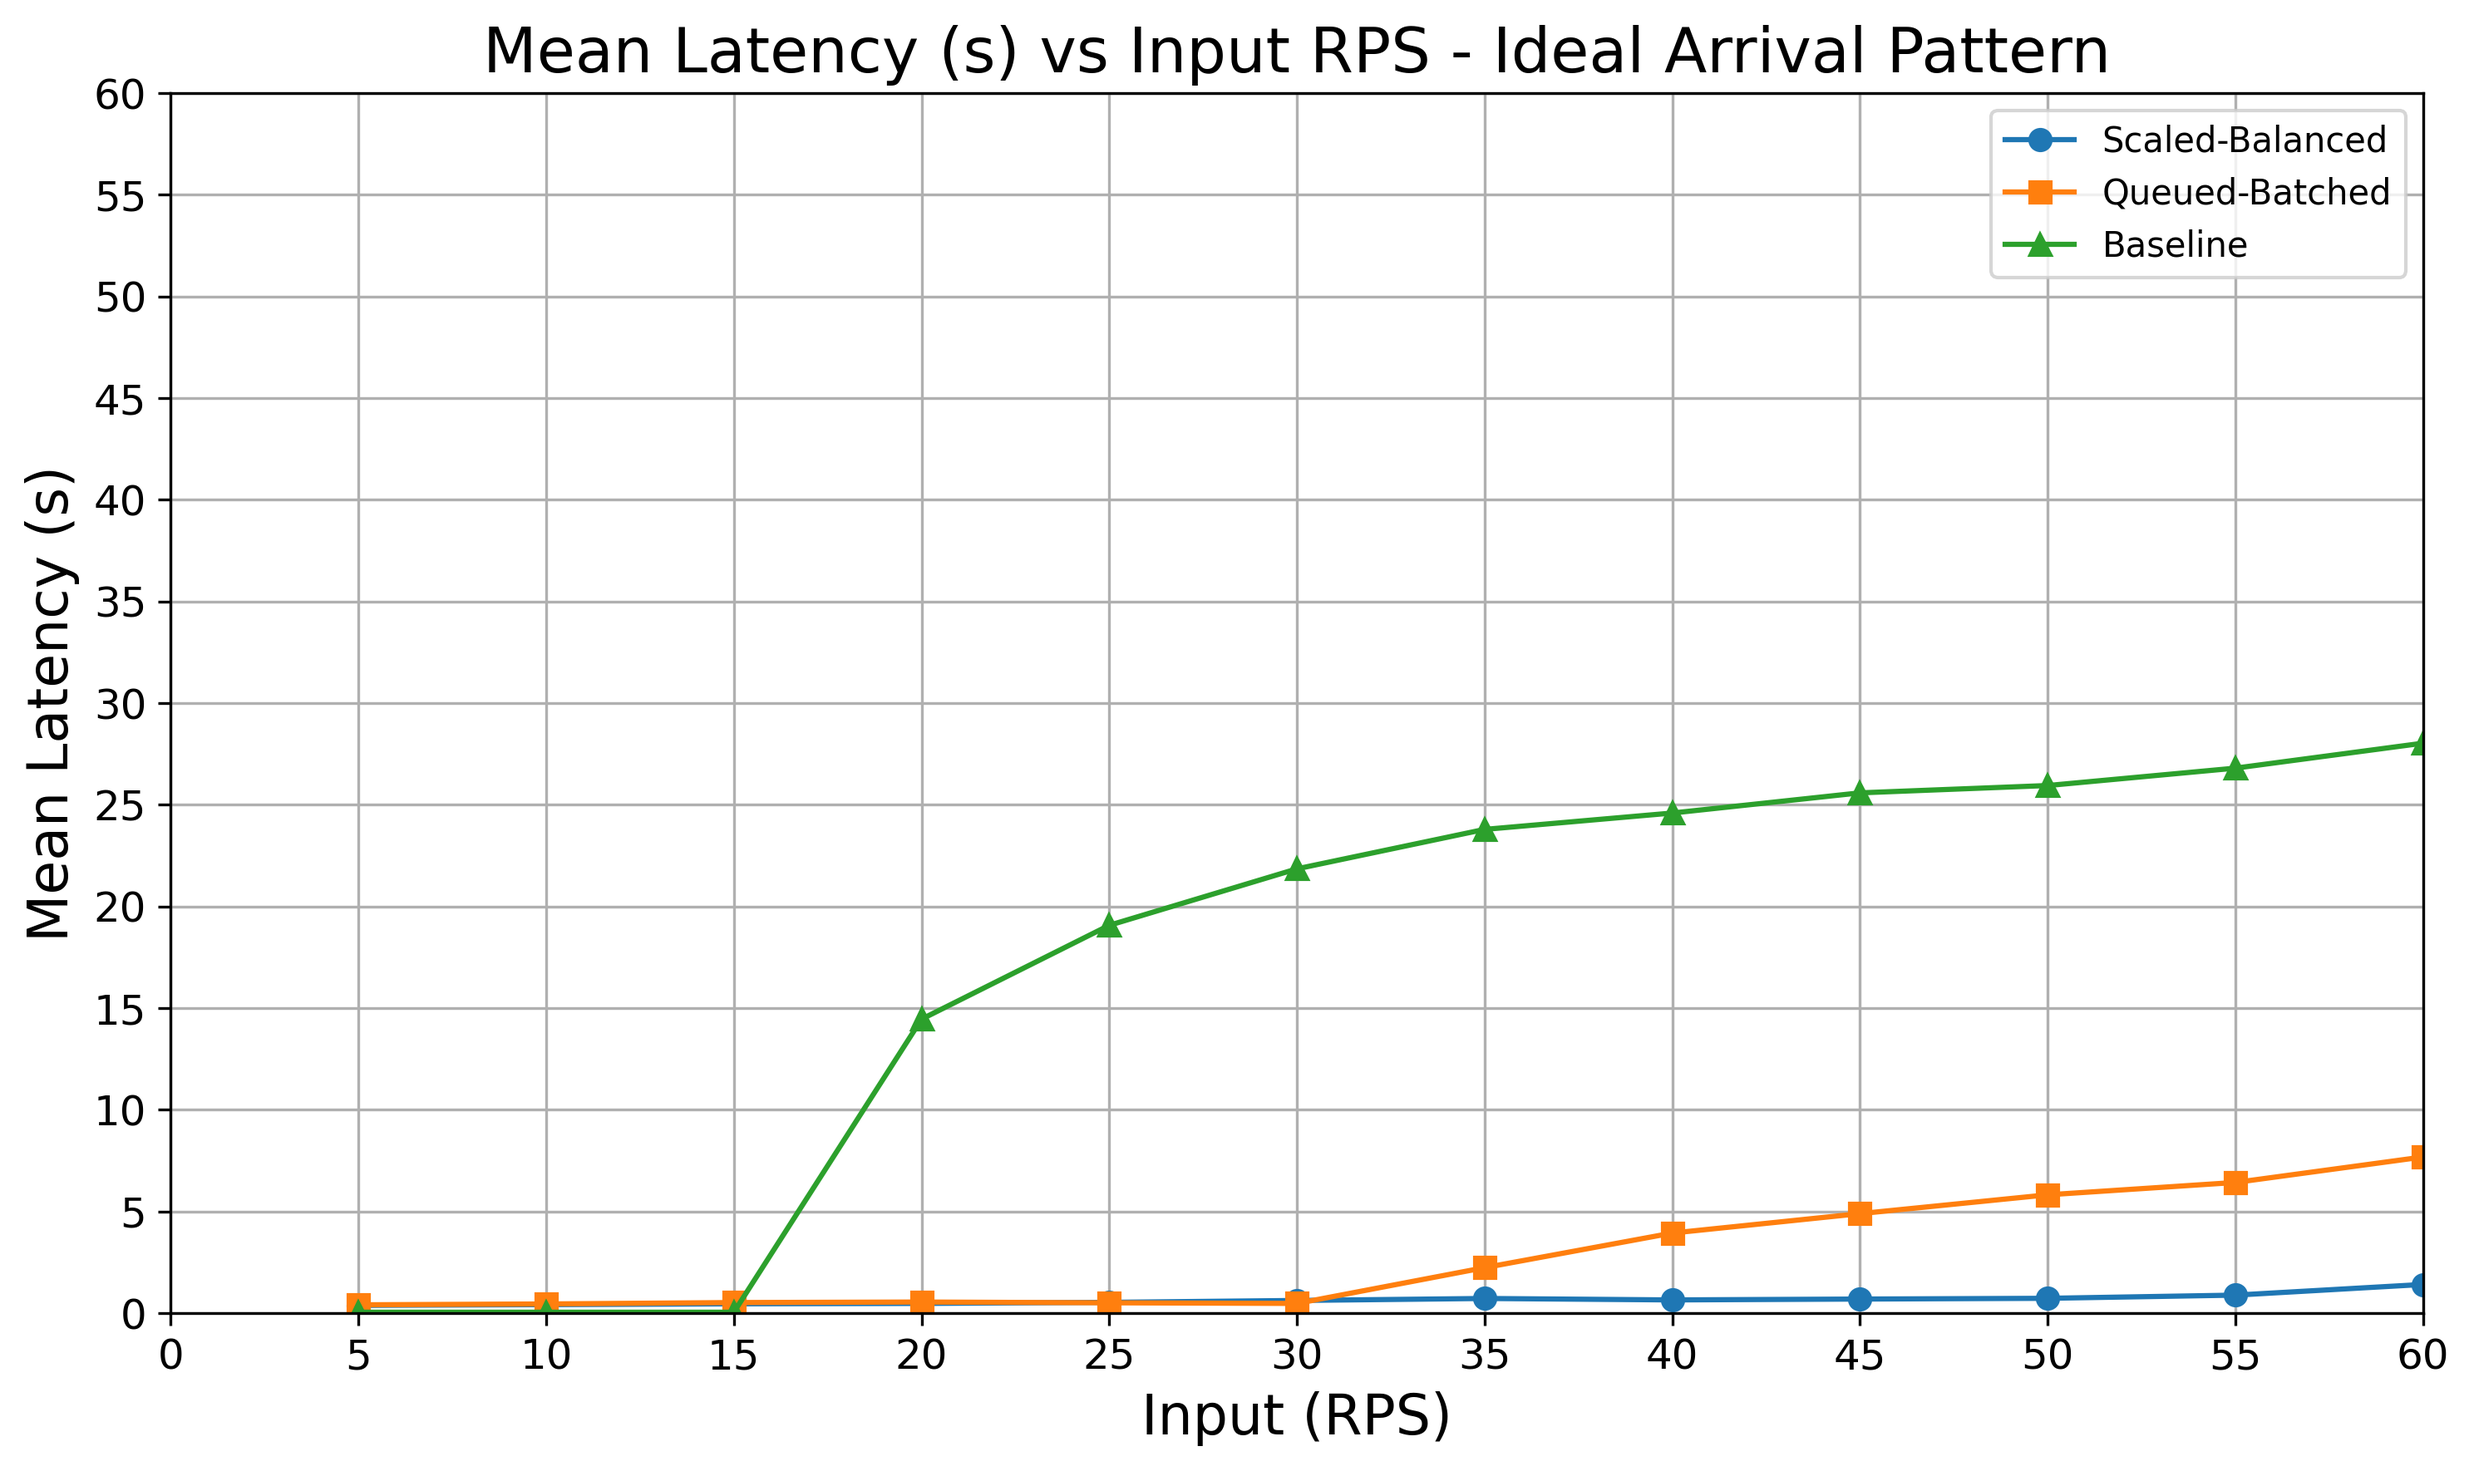
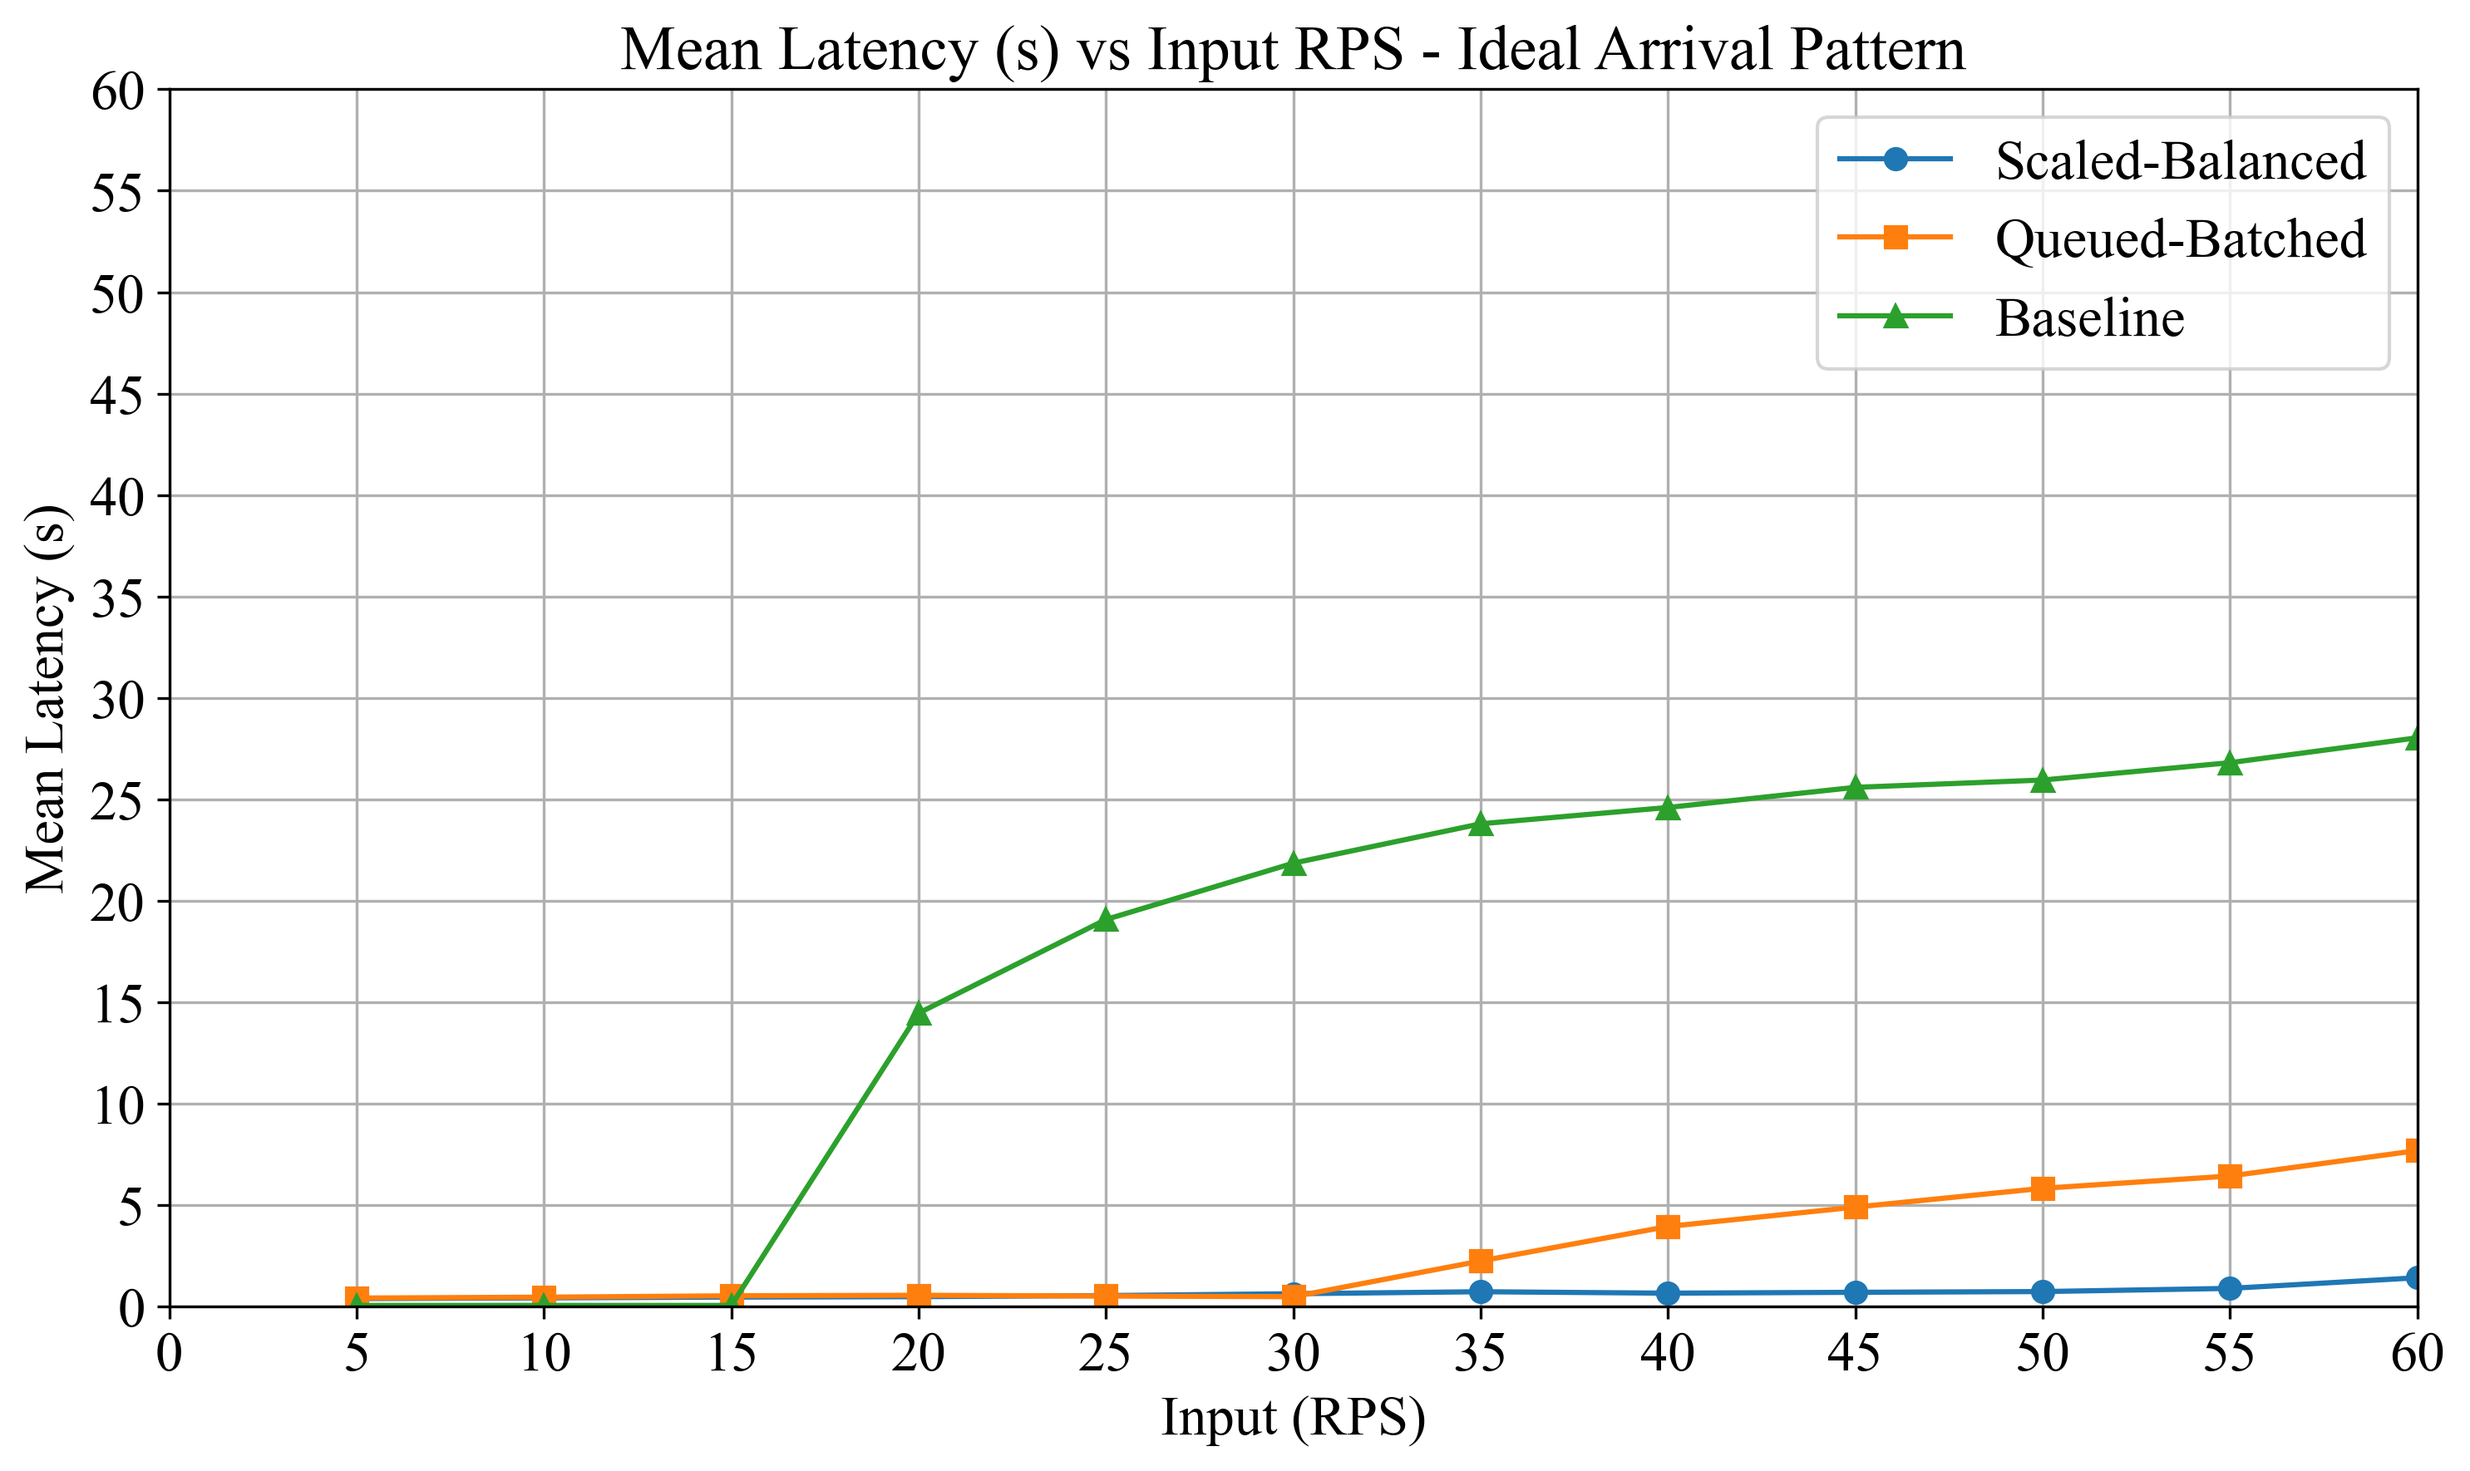
Updated fonts for graphs

diff --git a/task-1/elbow_plot/generate_elbow_plot_data.py b/task-1/elbow_plot/generate_elbow_plot_data.py
@@ -1,6 +1,7 @@
 import numpy as np
-import matplotlib.pyplot as plt
 import cupy as cp
+import pandas as pd
+import os
 
 def our_kmeans_cosine_elbow(N, D, A, K, return_loss=False):
     max_iters = 20
@@ -191,11 +192,10 @@ def our_kmeans_L2_elbow(N, D, A, K, return_loss=False):
 
     return cluster_assignments
 
-def generate_elbow_plot(N=480_000, D=1024, K_values=None, seed=42): # Change D back to 1024 for proper testing
+def run_kmeans_and_save_losses(N=480_000, D=1024, K_values=None, seed=42, out_csv="elbow_losses.csv"):
     if K_values is None:
-        K_values = list(range(1, 1000, 100))  # Test K = 2 to 15
+        K_values = list(range(1, 1000, 100))
 
-    # Set random seed for reproducibility
     np.random.seed(seed)
     print(f"Generating synthetic dataset: N={N}, D={D}")
     A = np.random.randn(N, D).astype(np.float32)
@@ -214,32 +214,16 @@ def generate_elbow_plot(N=480_000, D=1024, K_values=None, seed=42): # Change D b
         _, loss_cosine = our_kmeans_cosine_elbow(N, D, A, K, return_loss=True)
         losses_cosine.append(loss_cosine)
 
-    # --------------------------
-    # Plot for L2 distance only
-    # --------------------------
-    
-    plt.figure(figsize=(10, 6))
-    plt.plot(K_values, losses_L2, marker='o', color='blue')
-    plt.xlabel("Number of Clusters (K)", fontsize=16)
-    plt.ylabel("L2 Clustering Loss", fontsize=16)
-    plt.title("Elbow Plot for KMeans with L2 Distance", fontsize=18)
-    plt.grid(True)
-    plt.tight_layout()
-    plt.savefig("elbow_plot_L2.png")
-    plt.show()
+    # Save results to elbow_plot/elbow_losses.csv
+    out_path = os.path.join(os.path.dirname(__file__), out_csv)
+    df = pd.DataFrame({
+        "K": K_values,
+        "loss_L2": losses_L2,
+        "loss_cosine": losses_cosine
+    })
+    df.to_csv(out_path, index=False)
+    print(f"\nSaved results to {out_path}")
 
-    # -----------------------------
-    # Plot for Cosine distance only
-    # -----------------------------
-    plt.figure(figsize=(10, 6))
-    plt.plot(K_values, losses_cosine, marker='s', color='orange')
-    plt.xlabel("Number of Clusters (K)", fontsize=16)
-    plt.ylabel("Cosine Clustering Loss", fontsize=16)
-    plt.title("Elbow Plot for KMeans with Cosine Distance", fontsize=18)
-    plt.grid(True)
-    plt.tight_layout()
-    plt.savefig("elbow_plot_cosine.png")
-    plt.show()
 
 if __name__ == "__main__":
-    generate_elbow_plot()
+    run_kmeans_and_save_losses()

diff --git a/task-2/test_results/plot_results.py b/task-2/test_results/plot_results.py
@@ -3,6 +3,12 @@ import matplotlib.pyplot as plt
 import numpy as np
 import glob
 
+# === Global Font Settings ===
+plt.rcParams["font.family"] = "Times New Roman"
+plt.rcParams["xtick.labelsize"] = 16
+plt.rcParams["ytick.labelsize"] = 16
+plt.rcParams["legend.fontsize"] = 16
+
 # === Part 1: Plot Ideal Results for Different System Versions ===
 
 csv_files = glob.glob("*_ideal_end_to_end_results.csv")
@@ -31,7 +37,6 @@ for metric, (ylabel, filename) in metrics.items():
                  color=colors[idx % len(colors)], 
                  marker=markers[idx % len(markers)])
     
-    # Set axis ticks in 5s
     plt.xlim(0, 60)
     plt.ylim(0, 60)
     plt.xticks(np.arange(0, 61, 5))
@@ -40,7 +45,6 @@ for metric, (ylabel, filename) in metrics.items():
     plt.title(f"{ylabel} vs Input RPS - Ideal Arrival Pattern", fontsize=18)
     plt.xlabel("Input (RPS)", fontsize=16)
     plt.ylabel(ylabel, fontsize=16)
-    plt.tick_params(axis='both', labelsize=12)
     plt.grid(True)
     plt.legend()
     plt.tight_layout()
@@ -69,18 +73,16 @@ for metric, (ylabel, filename) in bar_metrics.items():
     plt.bar(x - bar_width/2, df_ideal[metric], width=bar_width, label="Ideal Arrival", color="tab:blue")
     plt.bar(x + bar_width/2, df_poisson[metric], width=bar_width, label="Poisson Arrival", color="tab:orange")
 
-    # Set axis ticks in 5s
     y_min = 0
     y_max = max(df_ideal[metric].max(), df_poisson[metric].max())
     plt.yticks(np.arange(y_min, np.ceil(y_max) + 1, 5))
 
-    plt.title(f"Final Design - {ylabel} vs Input RPS - Ideal vs Poisson", fontsize=18)
+    plt.title(f"Scaled-Batched - {ylabel} vs Input RPS - Ideal vs Poisson", fontsize=18)
     plt.xlabel("Input RPS", fontsize=16)
     plt.ylabel(ylabel, fontsize=16)
-    plt.xticks(x, rps_values, fontsize=12)
-    plt.tick_params(axis='y', labelsize=12)
-    plt.legend(fontsize=14)
+    plt.xticks(x, rps_values)
     plt.grid(axis='y', linestyle='--', alpha=0.7)
+    plt.legend()
     plt.tight_layout()
     plt.savefig(filename, dpi=300, bbox_inches='tight')
     plt.close()

diff --git a/task-1/elbow_plot/plot_elbow.py b/task-1/elbow_plot/plot_elbow.py
@@ -1,0 +1,45 @@
+# elbow_plot/plot_elbow.py
+
+import pandas as pd
+import matplotlib.pyplot as plt
+import os
+
+# Set font properties globally
+plt.rcParams["font.family"] = "Times New Roman"
+plt.rcParams["xtick.labelsize"] = 16
+plt.rcParams["ytick.labelsize"] = 16
+plt.rcParams["axes.labelsize"] = 16
+plt.rcParams["axes.titlesize"] = 18
+
+def plot_elbow_from_csv(csv_filename="elbow_losses.csv"):
+    csv_path = os.path.join(os.path.dirname(__file__), csv_filename)
+    df = pd.read_csv(csv_path)
+    K_values = df["K"]
+    losses_L2 = df["loss_L2"]
+    losses_cosine = df["loss_cosine"]
+
+    # Plot for L2
+    plt.figure(figsize=(10, 6))
+    plt.plot(K_values, losses_L2, marker='o', color='blue')
+    plt.xlabel("Number of Clusters (K)")
+    plt.ylabel("L2 Clustering Loss")
+    plt.title("Elbow Plot for KMeans with L2 Distance")
+    plt.grid(True)
+    plt.tight_layout()
+    plt.savefig(os.path.join(os.path.dirname(__file__), "elbow_plot_L2.png"))
+    plt.show()
+
+    # Plot for Cosine
+    plt.figure(figsize=(10, 6))
+    plt.plot(K_values, losses_cosine, marker='s', color='orange')
+    plt.xlabel("Number of Clusters (K)")
+    plt.ylabel("Cosine Clustering Loss")
+    plt.title("Elbow Plot for KMeans with Cosine Distance")
+    plt.grid(True)
+    plt.tight_layout()
+    plt.savefig(os.path.join(os.path.dirname(__file__), "elbow_plot_cosine.png"))
+    plt.show()
+
+
+if __name__ == "__main__":
+    plot_elbow_from_csv()
